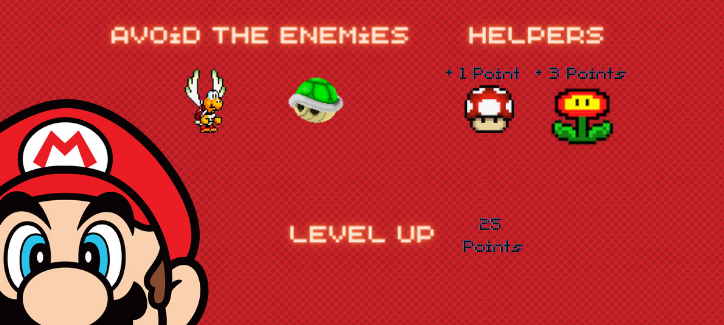
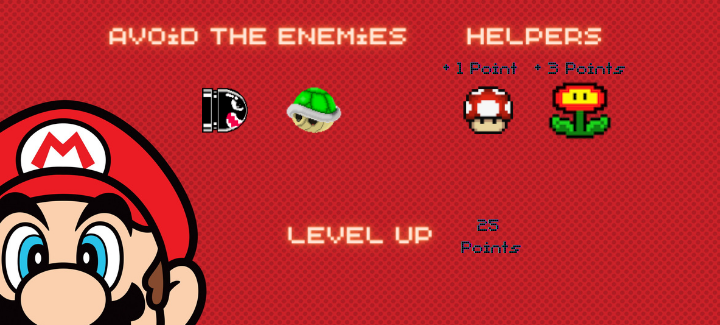
changed flying enemy to static and corrected the help text; implemented spead increase in enemies when level up

diff --git a/scripts/obstacle.js b/scripts/obstacle.js
@@ -31,19 +31,20 @@ class Enemy {
     this.interval = setInterval(this.fly, 20)
   };
 
-  fly = () => {  
-    if (this.imageSource > 8) {
-      this.imageSource = 1
-    }
-    this.imgEnemy.src = `/images/turtle-fly-movement/${this.imageSource}-removebg-preview.png`
-    ctx.drawImage(this.imgEnemy, this.x, this.y, this.width, this.height)
-    this.imageCounter++
+  // Not using for now since the animation was lagging
+  // fly = () => {  
+  //   if (this.imageSource > 8) {
+  //     this.imageSource = 1
+  //   }
+  //   this.imgEnemy.src = `/images/turtle-fly-movement/${this.imageSource}-removebg-preview.png`
+  //   ctx.drawImage(this.imgEnemy, this.x, this.y, this.width, this.height)
+  //   this.imageCounter++
     
-    if (this.imageCounter > 5) {
-      this.imageCounter = 0
-      this.imageSource ++
-    }
-  }
+  //   if (this.imageCounter > 5) {
+  //     this.imageCounter = 0
+  //     this.imageSource ++
+  //   }
+  // }
   
   random = () => {
     this.x = Math.floor(Math.random() * (canvas.clientWidth - this.width))
@@ -59,31 +60,34 @@ class Enemy {
 
   moveHorizontal = () => {
     if (this.enemyRight() > canvas.clientWidth) {
-      this.x += this.horizontalSpeed
-      this.horizontalSpeed = -1;
+      // this.x += this.horizontalSpeed
+      this.horizontalSpeed *= -1;
+      this.imgEnemy.src = '/images/bullet-left.png'
     }
     else if (this.enemyLeft() < 0) {
-      this.x += this.horizontalSpeed
-      this.horizontalSpeed = 1
+      // this.x += this.horizontalSpeed
+      this.horizontalSpeed *= -1;
+      this.imgEnemy.src = '/images/bullet-right.png'
     }
     this.x += this.horizontalSpeed
+    ctx.drawImage(this.imgEnemy, this.x, this.y, this.width, this.height)
   }
 
-  moveVertical = () => {
-    if (this.enemyDown() < canvas.clientHeight) {
-      this.y += this.verticalSpeed
-      this.verticalSpeed = 1;
-    }
-    else if (this.enemyUp() < 0) {
-      this.y += this.verticalSpeed
-      this.verticalSpeed = -1
-    }
-    this.y += this.verticalSpeed
-  }
+  // moveVertical = () => {
+  //   if (this.enemyDown() < canvas.clientHeight) {
+  //     this.y += this.verticalSpeed
+  //     this.verticalSpeed = 1;
+  //   }
+  //   else if (this.enemyUp() < 0) {
+  //     this.y += this.verticalSpeed
+  //     this.verticalSpeed = -1
+  //   }
+  //   this.y += this.verticalSpeed
+  // }
 
   drop = () => {
     this.toDrop.forEach(drop => {
-    drop[1] += 3
+    drop[1] += 1 + this.verticalSpeed
     this.y = drop[1]
     this.draw()    
       if (drop[1] > canvas.clientHeight) {

diff --git a/scripts/game.js b/scripts/game.js
@@ -51,7 +51,8 @@ class Game {
     const mushroom = new PlayerHelp (40, 40, '/images/mario-mushroom-2.png', 200, 400, this.player)
     this.mushroom = mushroom;
 
-    const enemy1 = new Enemy (65, 65, '/images/turtle-fly-movement/1-removebg-preview.png', 150, 200, this.player)
+    // const enemy1 = new Enemy (65, 65, '/images/turtle-fly-movement/1-removebg-preview.png', 150, 200, this.player)
+    const enemy1 = new Enemy (65, 65, '/images/bullet-right.png', 150, 200, this.player)
     this.enemy1 = enemy1
 
     const enemy2 = new Enemy (50, 50, '/images/turtle-shell.png', -100, -100, this.player)
@@ -108,7 +109,7 @@ class Game {
     this.player.draw();
     this.player.move();
     this.enemy1.moveHorizontal();
-    this.enemy1.fly();
+    // this.enemy1.fly();
     this.enemy2.drop();
     this.flower.drop();
     // this.coin.drop();
@@ -157,7 +158,11 @@ class Game {
         (this.points - 1) % 25 === 0 ||
         this.points % 25 === 0
         )
-        {this.level ++}
+        {
+          this.level ++
+          this.enemy1.horizontalSpeed ++
+          this.enemy2.verticalSpeed ++
+        }
      }
     })
   }
@@ -206,6 +211,8 @@ class Game {
       // }
       else if (this.points % 25 === 0) {
         this.level ++
+        this.enemy1.horizontalSpeed ++
+        this.enemy2.verticalSpeed ++
       }
     }
     else {
